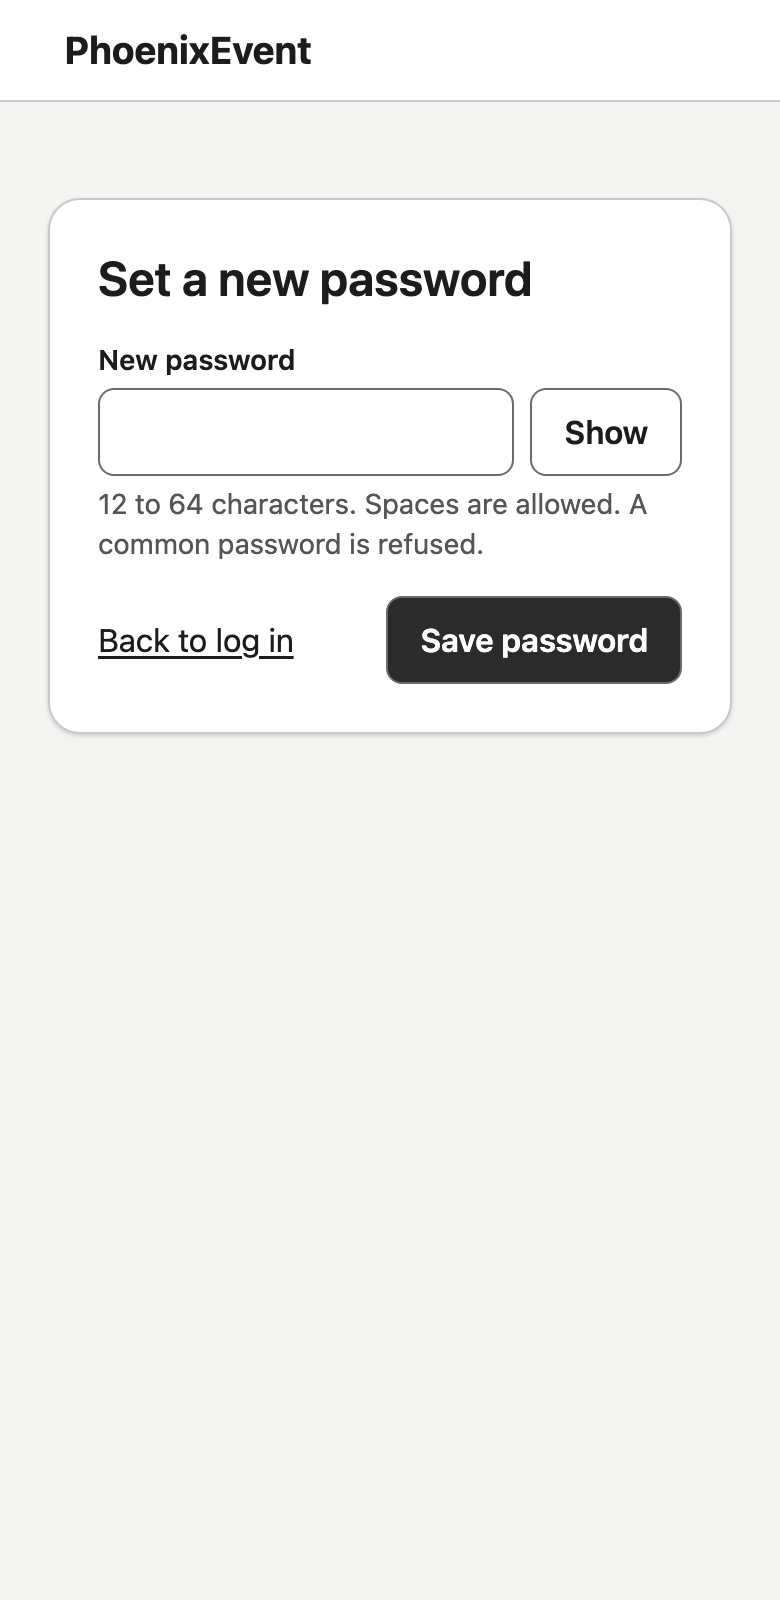
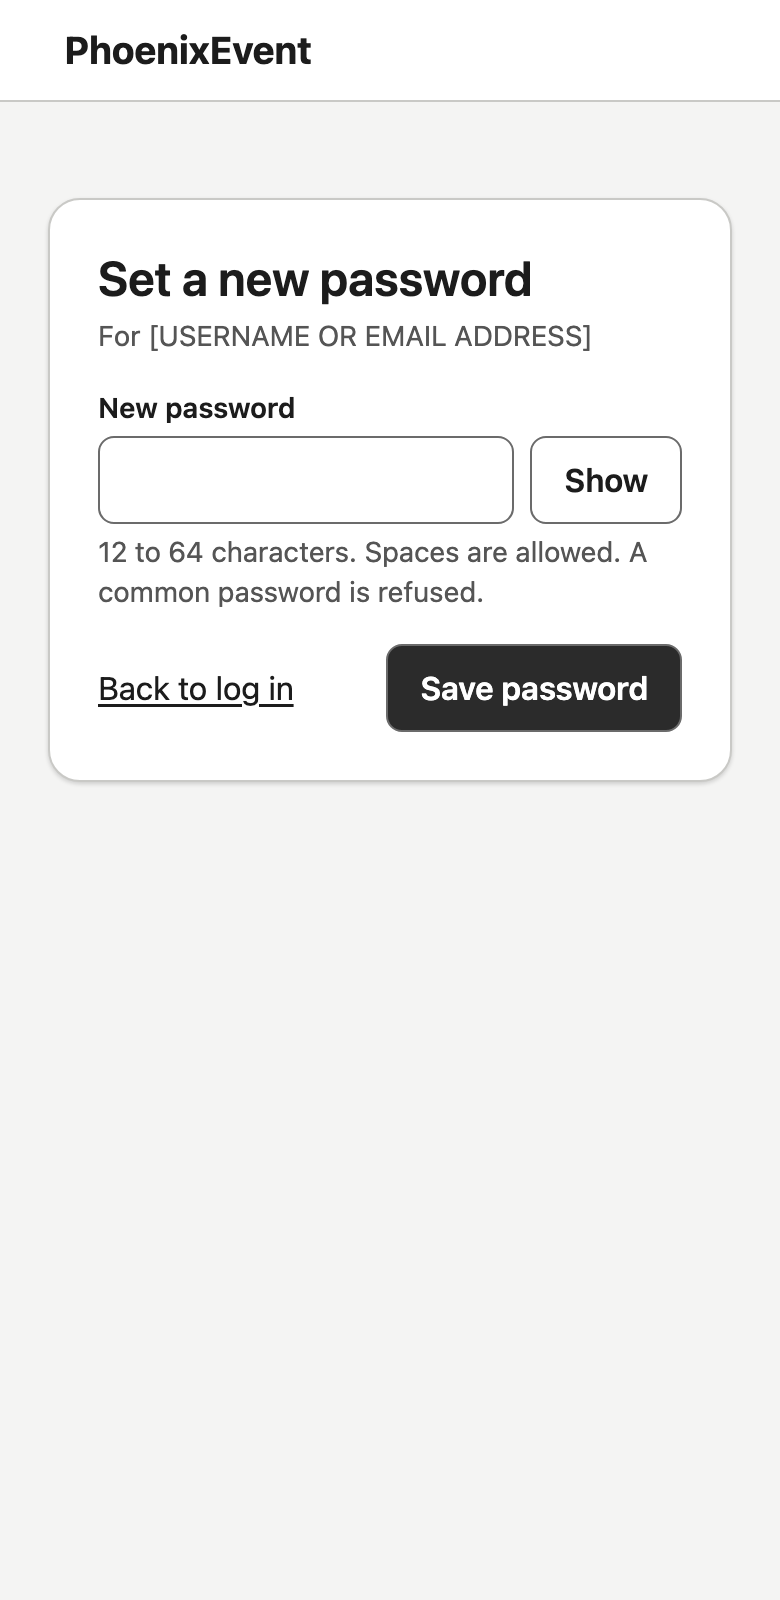
Wireframe A6: show the account whose password is set
Laptop and phone versions, approved by the owner on October 22, 2026
(spec v1.03).

diff --git a/docs/wireframes/source/AccountReset.dc.html b/docs/wireframes/source/AccountReset.dc.html
@@ -21,7 +21,10 @@ a{color:#1c1c1c}a:hover{color:#000000}
 </header>
 <main style="padding: var(--space-12) var(--space-6); display: flex; justify-content: center">
 <div class="pe-login">
+<div style="display: flex; flex-direction: column; gap: var(--space-1)">
 <h1 class="pe-login__title">Set a new password</h1>
+<p class="pe-login__org">For [USERNAME OR EMAIL ADDRESS]</p>
+</div>
 <div class="pe-field">
 <label class="pe-field__label" for="new-password">New password</label>
 <div class="pe-password">
